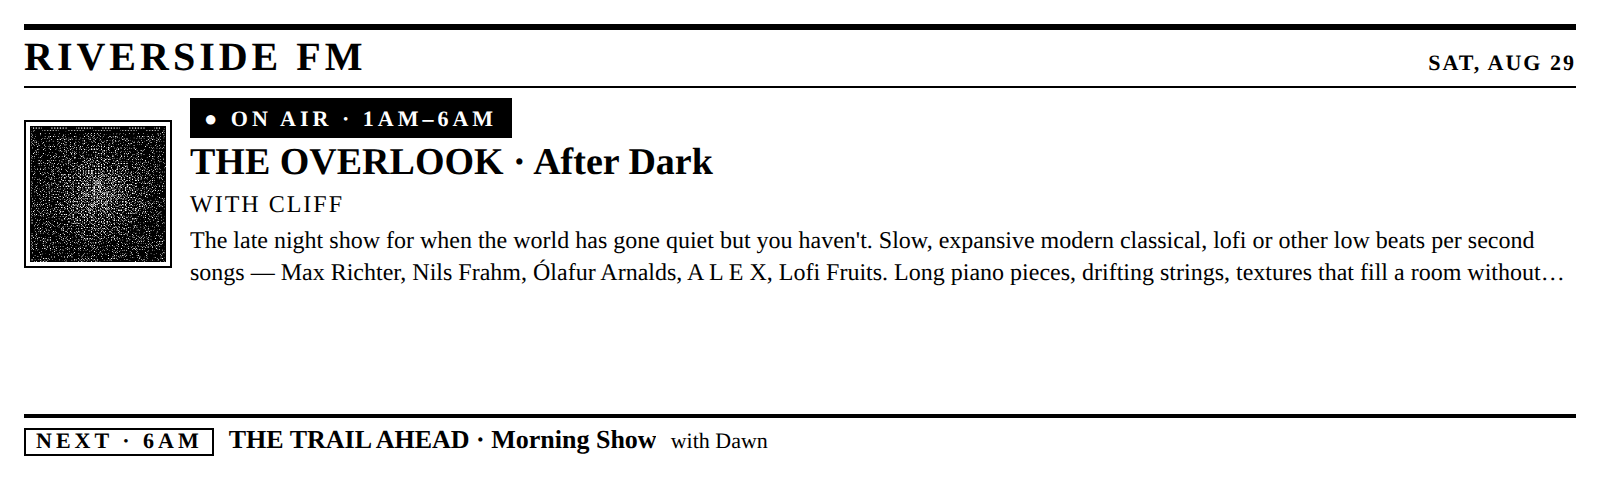
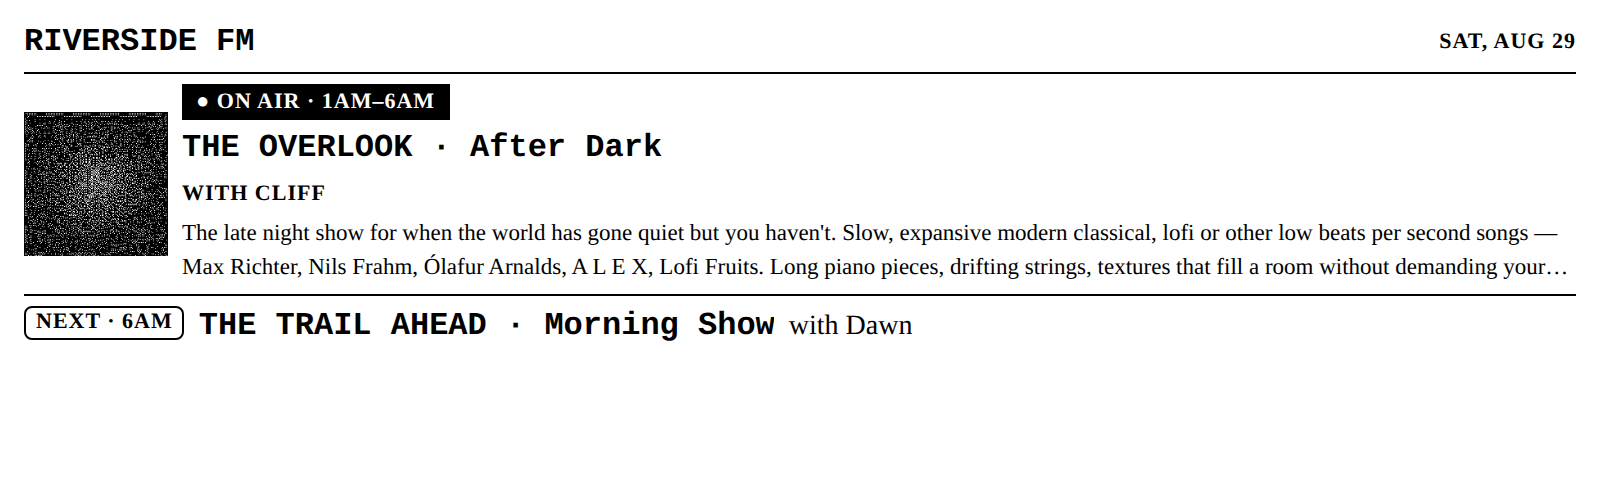
1.1.0: Framework rewrite, DJ artwork options, refreshed screenshots

Changed region(s): [[0.0, 0.0312, 1.0, 0.7188], [0.0, 0.8438, 1.0, 0.9688]]

diff --git a/CHANGELOG.md b/CHANGELOG.md
@@ -4,6 +4,53 @@ All notable changes to this plugin are documented here. The format follows
 [Keep a Changelog](https://keepachangelog.com/en/1.1.0/) and this project adheres
 to [Semantic Versioning](https://semver.org/spec/v2.0.0.html).
 
+## [1.1.0] — 2026-08-29
+
+### Added
+
+- **Masthead Subtitle field.** Free text for the line under the wordmark &mdash;
+  a web address, a slogan. Blank falls back to the station's own tagline, then
+  to its hostname.
+- **Show Description Size field** (Large / Normal / Small), setting type size
+  and line clamp together so long write-ups end in an ellipsis rather than a
+  clipped line.
+- **DJ Artwork treatments.** Dithered, High contrast, Outlined or Hidden. A
+  1-bit panel dithers whatever it is sent, and dark low-contrast portraits
+  become noise; High contrast drives the background to solid black first,
+  Outlined adds a hairline edge.
+- **TRMNL Title Bar field**, off by default. The full layout already carries a
+  station wordmark; the bar earns its place in mashups.
+- **`tools/dither_avatar.py`** &mdash; resizes to the rendered size, hardens the
+  tones and applies an Atkinson dither before the image reaches TRMNL. Better
+  results than any client-side treatment.
+- **Plugin icon** (`icon.png`, `icon.svg`).
+
+### Changed
+
+- **Markup rewritten against the TRMNL Framework.** Inline styles went from 46
+  to zero: `flex`/`gap` for layout, `p--`/`m--` for spacing, `bg--black` and
+  `text--white` for inverted blocks, `divider` and `divider--v` for rules,
+  `title`/`label`/`description` for type, and `data-clamp` in place of
+  `-webkit-line-clamp`. The guide list uses `data-overflow` so the runtime drops
+  rows that do not fit.
+- **Responsive behaviour.** The full layout's two columns stack in portrait
+  (`portrait:flex--col`), and the description clamps to fewer lines there.
+- Masthead subtitle set at 12px so a long web address and the date fit on one
+  line instead of truncating.
+
+### Removed
+
+- **The now-playing track line.** TRMNL's fastest refresh is 15 minutes, so a
+  track name is stale more often than not. That space went to the show
+  description. `/api/now-playing` is still polled for station name and tagline.
+
+### Fixed
+
+- Templates read form fields from `trmnl.plugin_settings.custom_fields_values`
+  with a bare-name fallback, so they work whichever way TRMNL supplies them.
+- Schedule blocks crossing midnight merge into one guide row instead of two.
+- Unscheduled hours render an explicit state rather than a blank panel.
+
 ## [1.0.0] — 2026-08-29
 
 First public release. Rebuilt from a private single-station plugin into one any
@@ -48,4 +95,5 @@ SUB/WAVE operator can install.
   this as `##{{ station_url }}`; the `##` is documentation escaping and is passed
   through into the fetched URL literally, degrading the plugin.
 
+[1.1.0]: https://github.com/mrain1p/subwave-trmnl-display/releases/tag/v1.1.0
 [1.0.0]: https://github.com/mrain1p/subwave-trmnl-display/releases/tag/v1.0.0

diff --git a/README.md b/README.md
@@ -184,7 +184,7 @@ small face readable.
 
 ## Changelog
 
-See [CHANGELOG.md](CHANGELOG.md). Current release: **1.0.0**.
+See [CHANGELOG.md](CHANGELOG.md). Current release: **1.1.0**.
 
 ## License
 
